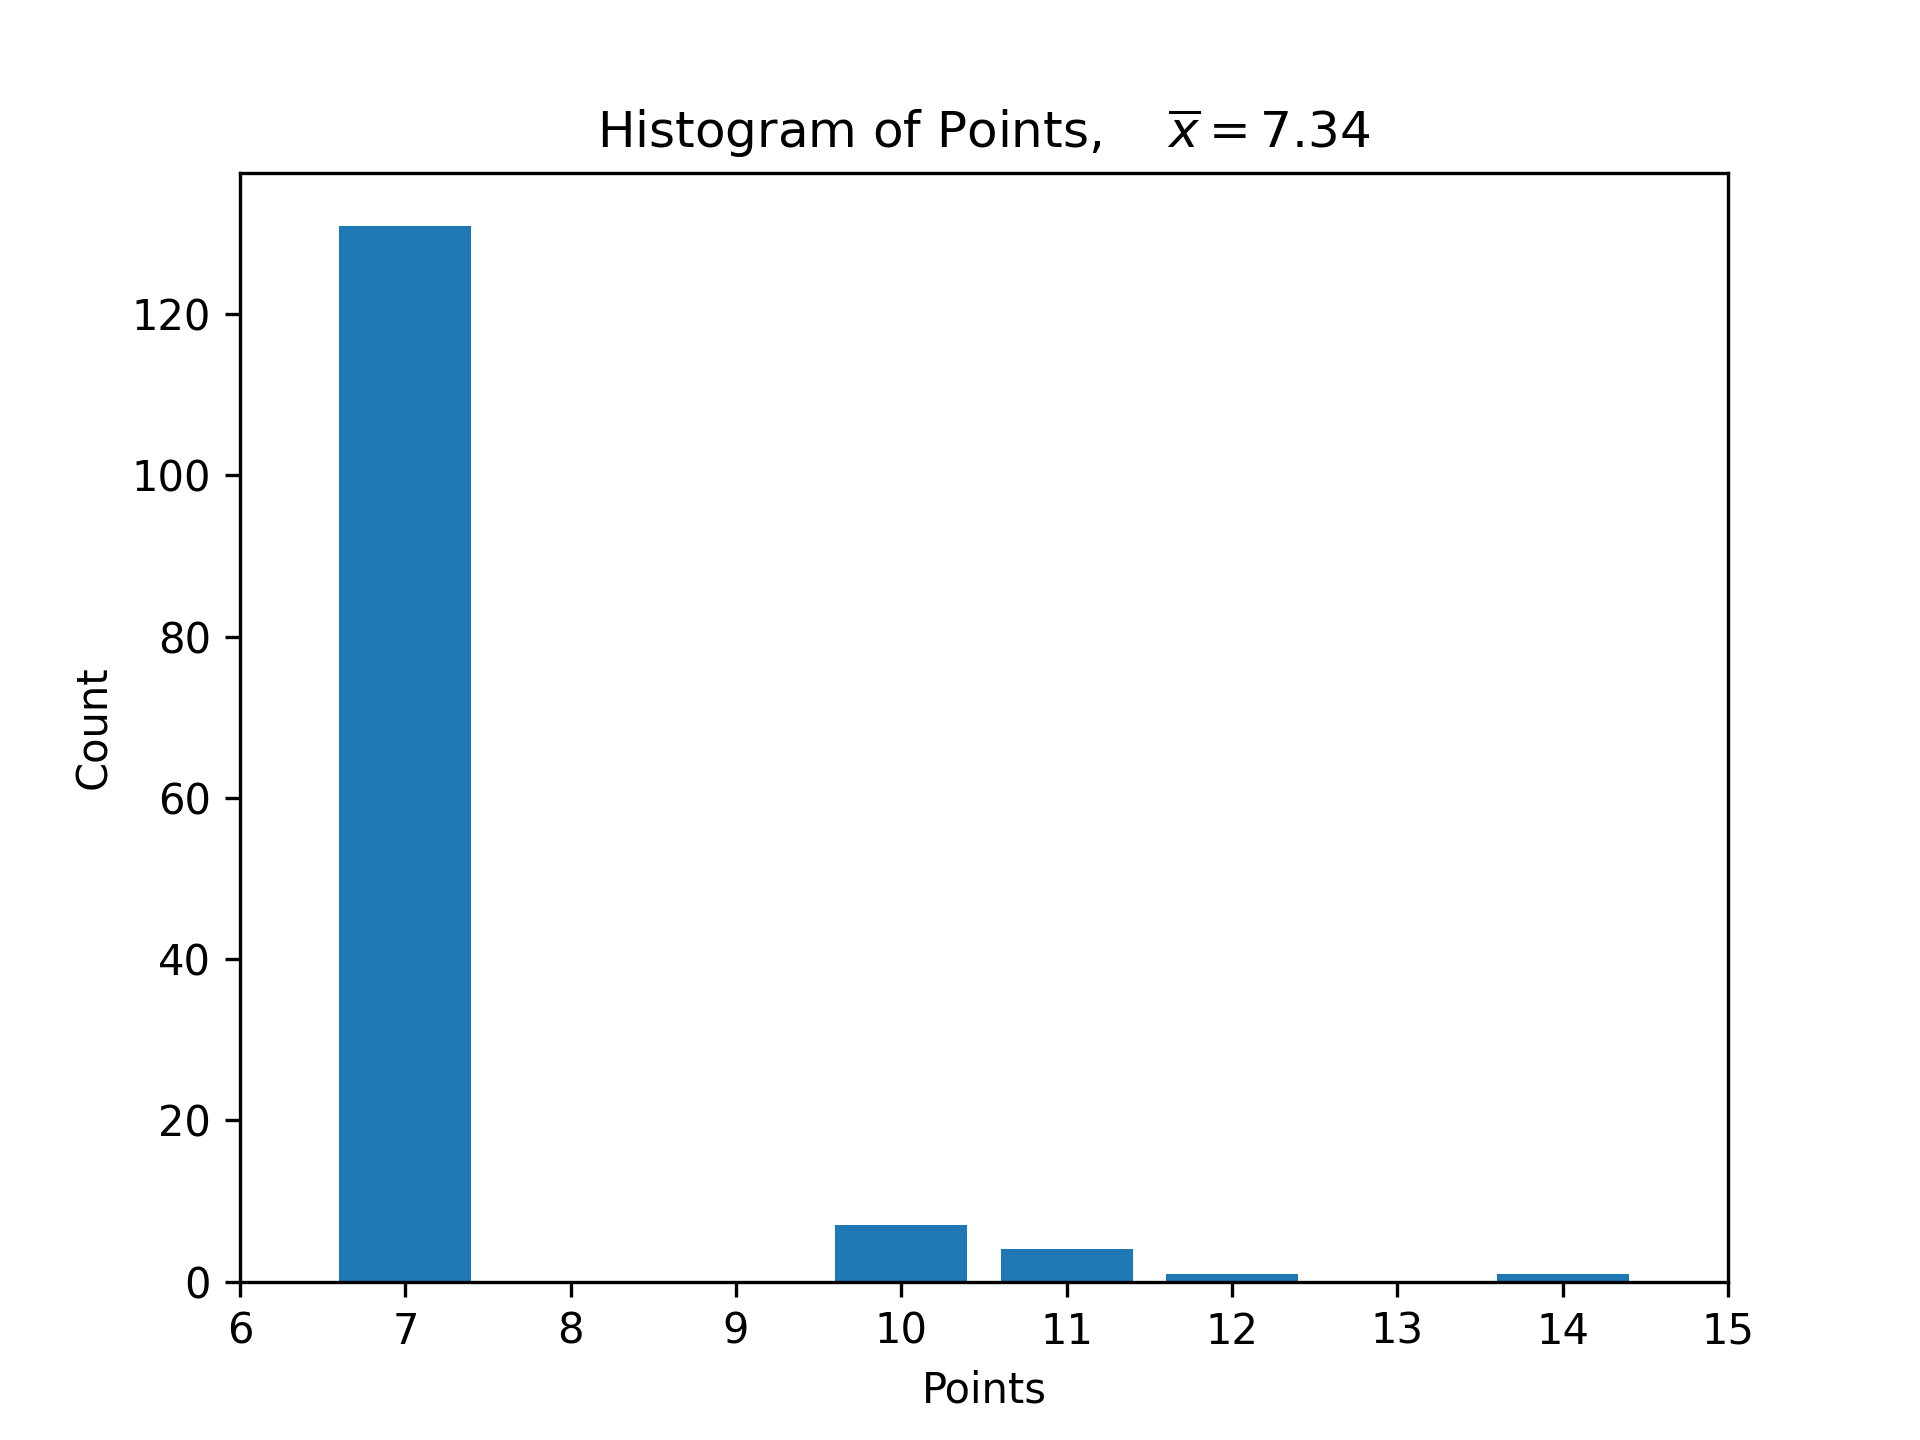
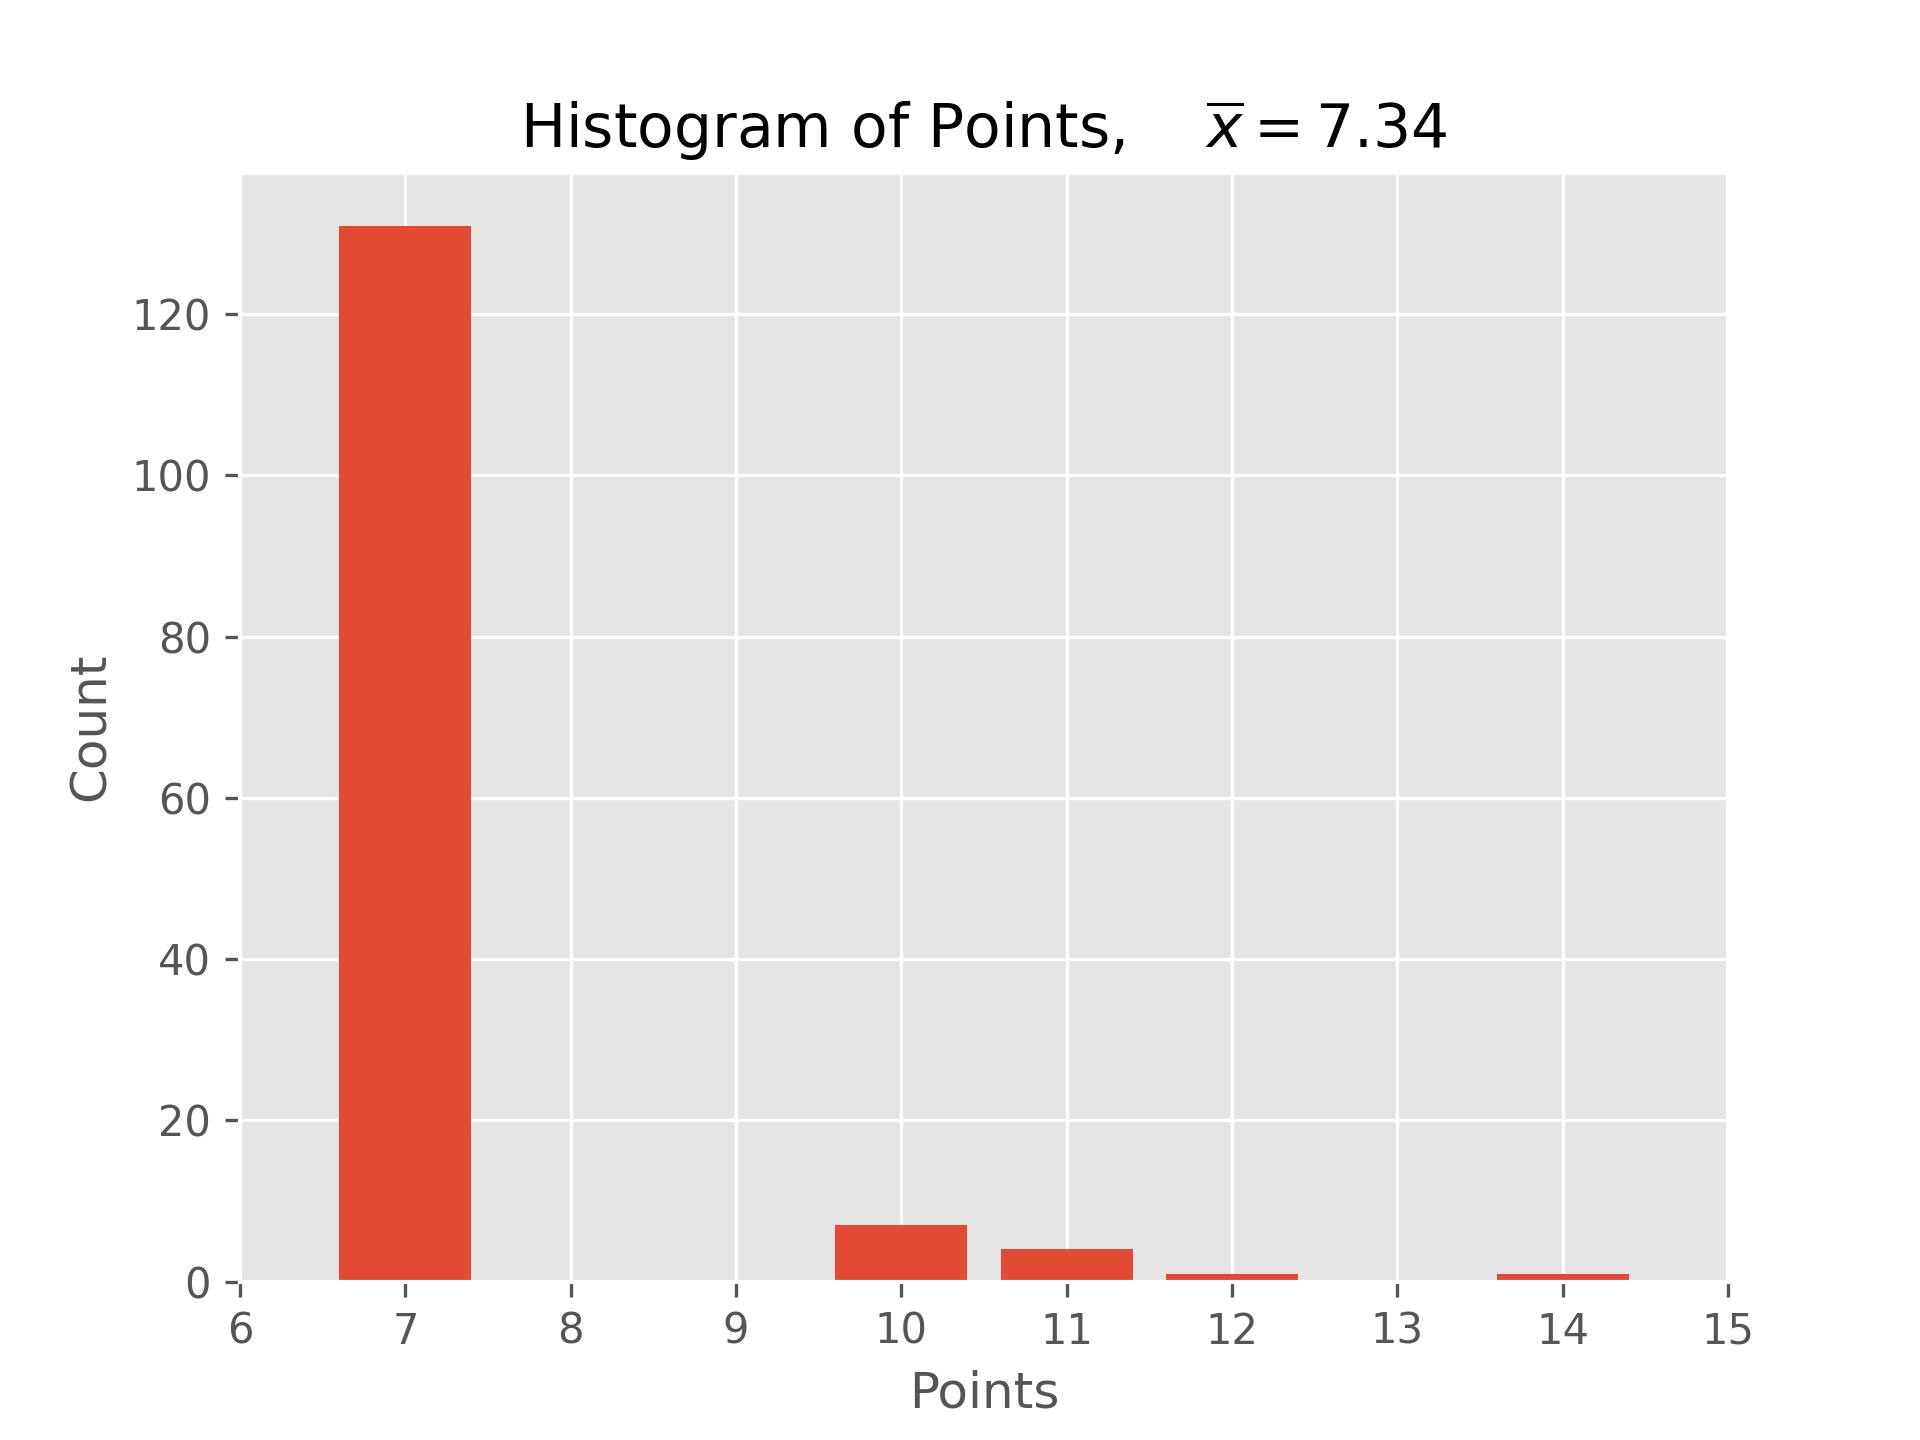
update style

diff --git a/kaggle_lead.py b/kaggle_lead.py
@@ -5,12 +5,13 @@ import csv
 import datetime
 from pytz import timezone
 import matplotlib.pyplot as plt
-import numpy as np
+import collections
 
 
 def mark(score):
     std = [0.88172, 0.861, 0.800, 0.769, 0.738, 0.667, 0.661, 0.656]
     return(15 - len([0 for _ in std if float(score) <= _]))
+
 
 cwd = os.getcwd()
 target_path = os.path.join(cwd, "data/publicleaderboarddata.zip")
@@ -43,7 +44,9 @@ with open(os.path.join(cwd, 'data', csv_name), 'r') as f:
         result.append(row + [tmp_mark])
 
 
-labels, counts = np.unique([mark(_[3]) for _ in result], return_counts=True)
+labels = collections.Counter([mark(_[3]) for _ in result]).keys()
+counts = collections.Counter([mark(_[3]) for _ in result]).values()
+plt.style.use('ggplot')
 plt.bar(labels, counts, align = 'center')
 plt.gca().set_xticks(range(6,16))
 plt.xlabel('Points')

diff --git a/README.md b/README.md
@@ -1,6 +1,6 @@
 # ETC3250 Kaggle score
 
-**Last updated: May 10, 2021 00:51:32**
+**Last updated: May 10, 2021 00:57:18**
 
 ## Public leaderboard
 
